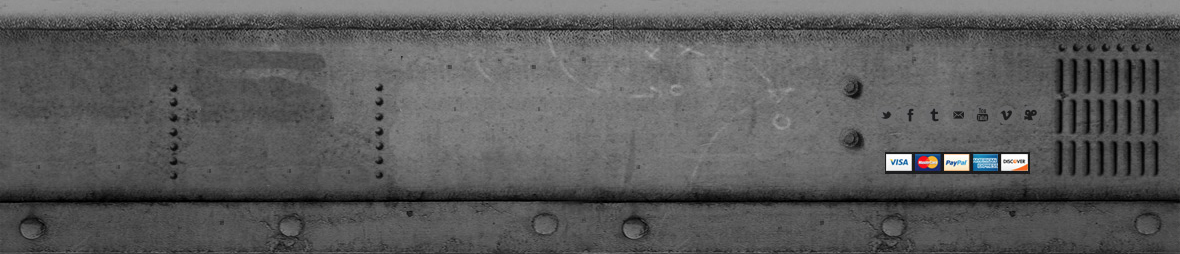
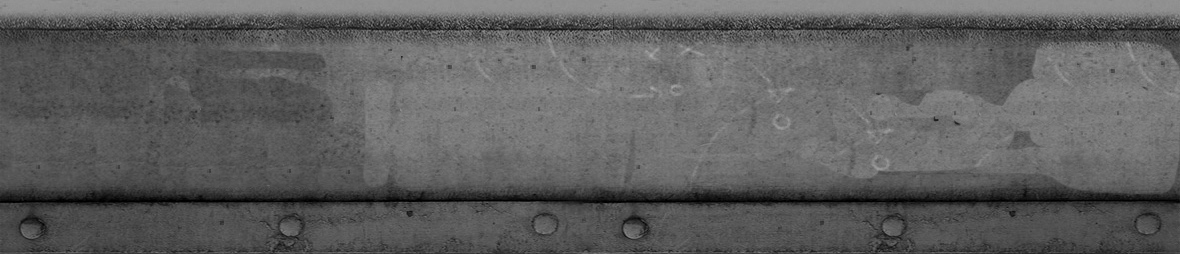
asset updates

diff --git a/style.css.less b/style.css.less
@@ -56,17 +56,33 @@ a {
       margin: 2px 0px;
       padding: 1px 10px;
 
-      &:hover {
-        color: red;
-      }
-
       &.button {
         margin-top: 35px;
         padding-top: 65px;
         text-align: center;
-        background-image: url('button.png');
+        background-image: url('button_sprite.png');
+        background-position: 85px 0px;
         width: 85px;
         height: 85px;
+
+        &:hover {
+          color: red;
+          background-position: 0px 0px;
+        }
+      }
+    }
+
+    #nav-helmet .button {
+      &:hover {
+        background-position: 0px 0px;
+      }
+    }
+
+    #nav-hands .button {
+      background-position: 85px 85px;
+
+      &:hover {
+        background-position: 0px 85px;
       }
     }
 
@@ -86,7 +102,7 @@ a {
 }
 
 #menu {
-  background-image: url('menu.png');
+  background-image: url('bg_menu.png');
   background-repeat: repeat-x;
   background-position: 0 30px;
   // background-color: #123455;
@@ -175,16 +191,20 @@ hr {
 }
 
 #blog {
-  background: url('bg_blog_left.png') top left repeat-y, url('bg_blog_right.png') top right repeat-y, url('bg_blog.png');
+  background: url('bg_blog_border.png') top left repeat-y, url('bg_blog_border.png') top right repeat-y, url('bg_blog.png');
 }
 
 #footer {
-  background-image: url('bg_footer.png');
+  background: url('footer_deco2.png') top right no-repeat, url('bg_footer.png');
+  background-position: right 40px, left top;
   height: 250px;
   padding-top: 40px;
 
   #footer-list > li {
+    background: url('footer_deco.png') no-repeat;
+    background-position: left 20px;
     float:left;
+    padding-left: 30px;
     margin-right: 80px;
   }
 
